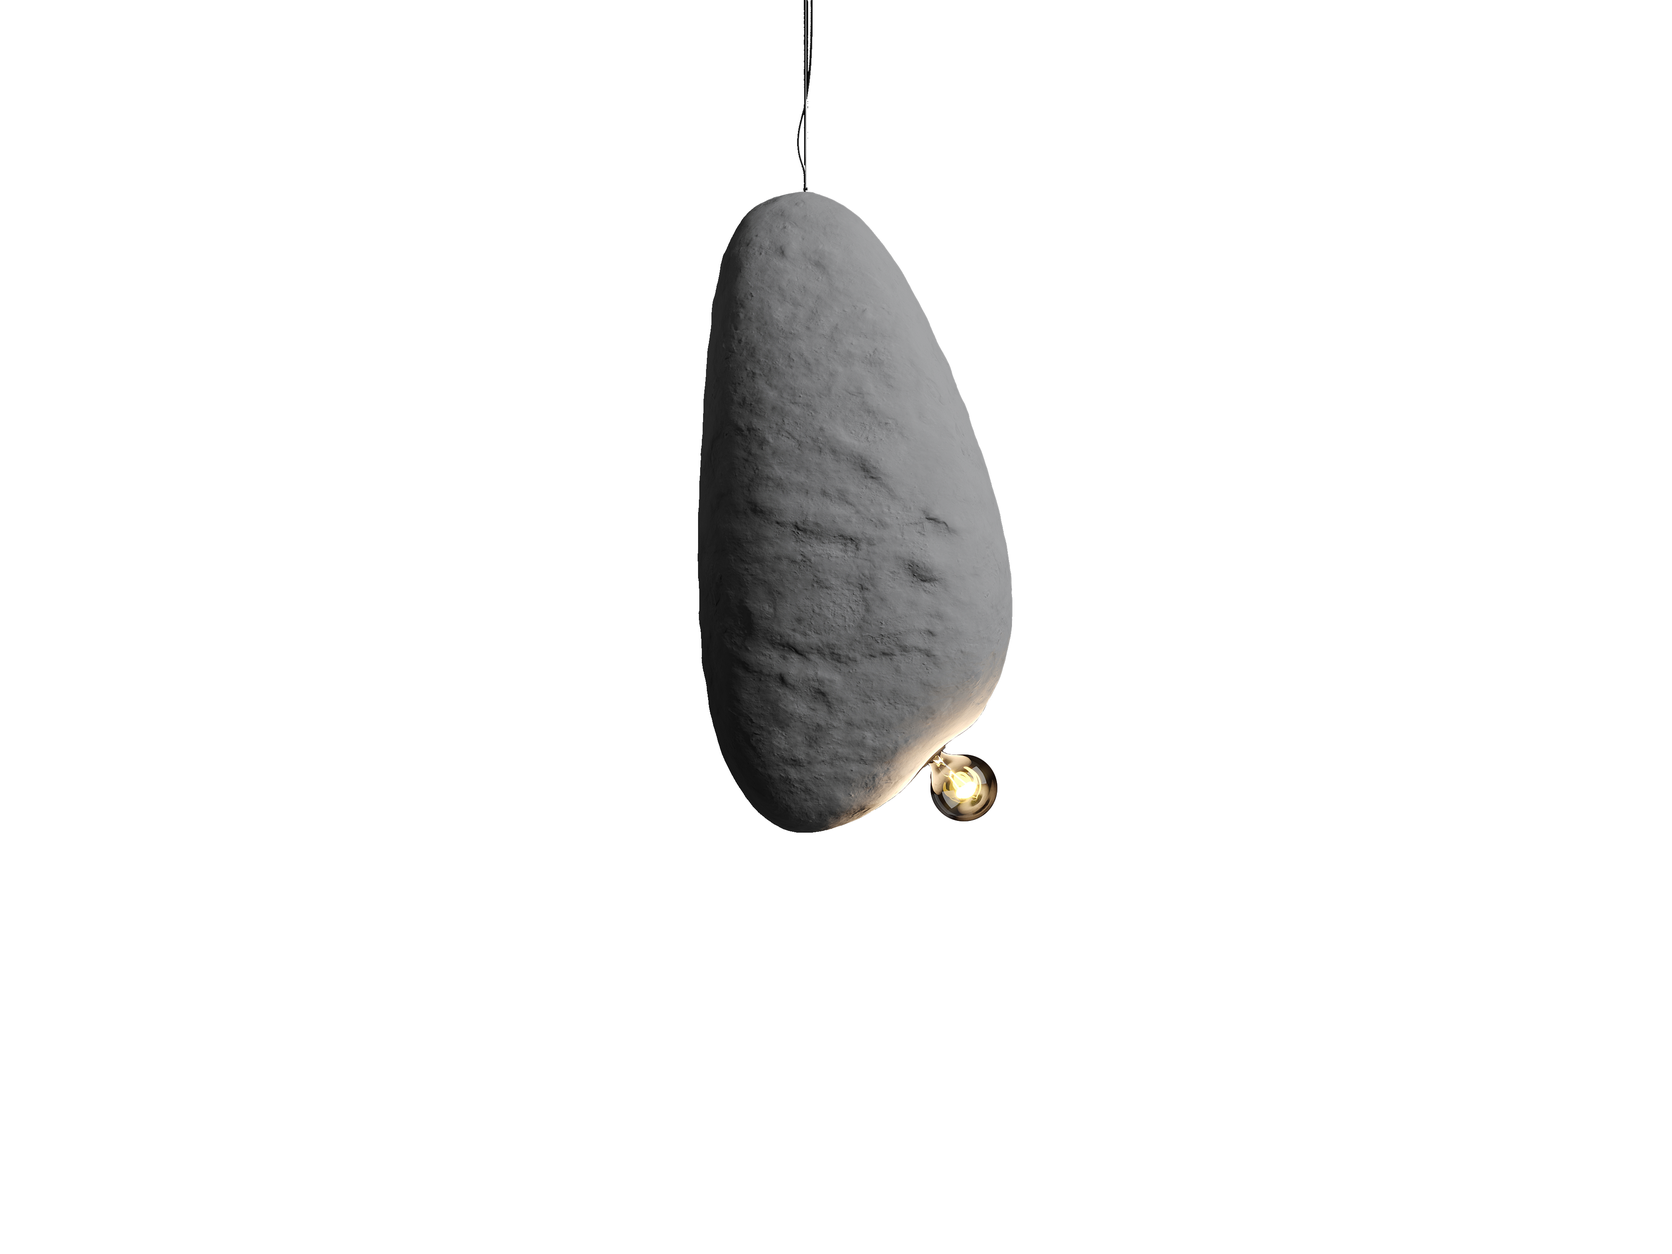
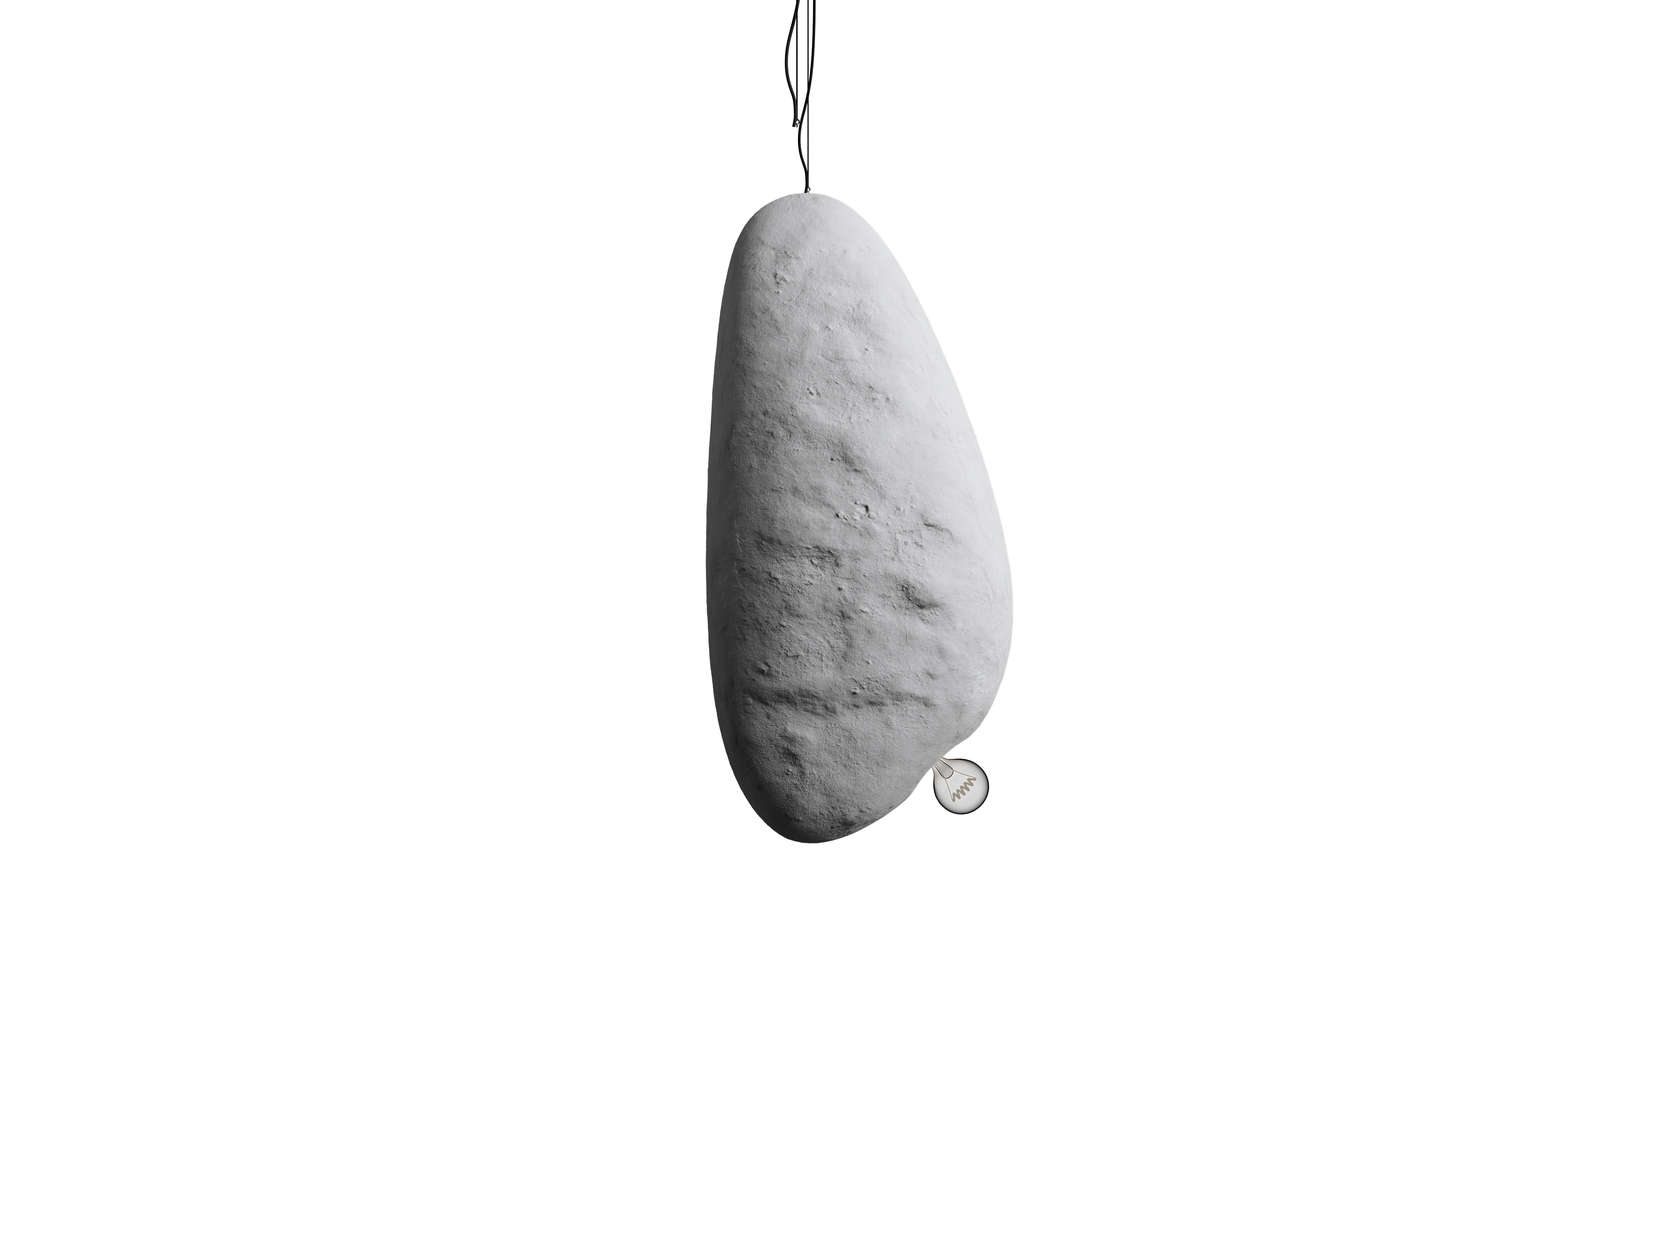
kamen

Changed region(s): [[0.4062, 0.0, 0.625, 0.682]]

diff --git a/pecina-preview.html b/pecina-preview.html
@@ -71,37 +71,37 @@
         </div>
         <!-- Nav -->
         <nav id="menu">
-			<div class="inner">
-				<ul class="links">
-					<li><a href="index.html" data-translate="home">Home</a>
-						<div class="menu-of">
-							<img src="assets/css/navstroke.png" />
-						</div>
-					</li>
-					<li><a href="portfolio.html" data-translate="portfolio">Portfolio</a>
-						<div class="menu-of">
-							<img src="assets/css/navstroke.png" />
-						</div>
-					</li>
-					<li><a href="for-designers.html" data-translate="forDesigners">For Designers</a>
-						<div class="menu-of">
-							<img src="assets/css/navstroke.png" />
-						</div>
-					</li>
-					<li><a href="about-us.html" data-translate="aboutUs">About Us</a>
-						<div class="menu-of">
-							<img src="assets/css/navstroke.png" />
-						</div>
-					</li>
-					<li><a href="contact-us.html">Kontakt</a>
-						<div class="menu-of">
-							<img src="assets/css/navstroke.png" />
-						</div>
-					</li>
-				</ul>
-				<a class="close"><span>Close</span></a>
-			</div>
-		</nav>
+            <div class="inner">
+                <ul class="links">
+                    <li><a href="index.html" data-translate="home">Home</a>
+                        <div class="menu-of">
+                            <img src="assets/css/navstroke.png" />
+                        </div>
+                    </li>
+                    <li><a href="portfolio.html" data-translate="portfolio">Portfolio</a>
+                        <div class="menu-of">
+                            <img src="assets/css/navstroke.png" />
+                        </div>
+                    </li>
+                    <li><a href="for-designers.html" data-translate="forDesigners">For Designers</a>
+                        <div class="menu-of">
+                            <img src="assets/css/navstroke.png" />
+                        </div>
+                    </li>
+                    <li><a href="about-us.html" data-translate="aboutUs">About Us</a>
+                        <div class="menu-of">
+                            <img src="assets/css/navstroke.png" />
+                        </div>
+                    </li>
+                    <li><a href="contact-us.html">Kontakt</a>
+                        <div class="menu-of">
+                            <img src="assets/css/navstroke.png" />
+                        </div>
+                    </li>
+                </ul>
+                <a class="close"><span>Close</span></a>
+            </div>
+        </nav>
         <!-- Main -->
         <section id="main" class="wrapper style1">
             <div class="inner">
@@ -147,44 +147,44 @@
                         data-aos-delay="400">
                         <div class="col-12 col-12-small">
                             <!-- Collapsible items -->
-                            <button class="collapsible"><i class="fas fa-chevron-down chevron arrow"></i>
-                                <h4 class="btn-text-collapsible" data-translate="material"></h4>
-                            </button>
-                            <div class="content-desc">
-                                <p>Lorem ipsum dolor sit amet, consectetur adipiscing elit.</p>
+                            <h4 class="btn-text-collapsible" data-translate="material"></h4>
+                            <div class="">
+                                <p style="margin-bottom: 0;">Keramika</p>
                             </div>
-                            <div class="stroke1"></div>
-                            <button class="collapsible"><i class="fas fa-chevron-down chevron arrow"></i>
-                                <h4 class="btn-text-collapsible" data-translate="dimensions"></h4>
-                            </button>
-                            <div class="content-desc">
-                                <p>Lorem ipsum dolor sit amet, consectetur adipiscing elit.</p>
+                            <div class="stroke1" style="margin-bottom: 1rem;"></div>
+                            <h4 class="btn-text-collapsible" data-translate="dimensions"></h4>
+                            <div class="">
+                                <p style="margin-bottom: 0;">62x36cm (visina x širina)</p>
                             </div>
-                            <div class="stroke2"></div>
-
-                            <button class="collapsible"><i class="fas fa-chevron-down chevron arrow"></i>
-                                <h4 class="btn-text-collapsible" data-translate="weight"></h4>
-                            </button>
-                            <div class="content-desc">
-                                <p>Lorem ipsum dolor sit amet, consectetur adipiscing elit.</p>
+                            <div class="stroke2" style="margin-bottom: 1rem;"></div>
+                            <h4 class="btn-text-collapsible" data-translate="colors"></h4>
+                            <div class="">
+                                <div class="custom-gallery">
+                                    <img src="images/textures/12.jpg" alt="Thumbnail 1" class="custom-thumbnail"
+                                        onclick="openModal('images/textures/12.jpg')">
+                                    <img src="images/textures/13.jpg" alt="Thumbnail 1" class="custom-thumbnail"
+                                        onclick="openModal('images/textures/13.jpg')">
+                                </div>
                             </div>
-                            <div class="stroke3"></div>
-
-                            <button class="collapsible"><i class="fas fa-chevron-down chevron arrow"></i>
-                                <h4 class="btn-text-collapsible" data-translate="colors"></h4>
-                            </button>
-                            <div class="content-desc">
-                                <p>Lorem ipsum dolor sit amet, consectetur adipiscing elit.</p>
+                            <div class="stroke3" style="margin-bottom: 1rem;"></div>
+                            <h4 class="btn-text-collapsible">3D modeli</h4>
+                            <div>
+                                <a class="link-a-3d" href="for-designers.html"><span>Pregled svih 3D modela</span><i
+                                        style="margin-left: 10px;" class="fa fa-arrow-right" aria-hidden="true"></i></a>
                             </div>
-                            <div class="stroke4"></div>
-
+                            <div class="stroke4" style="margin-bottom: 1rem;"></div>
                             <button class="collapsible"><i class="fas fa-chevron-down chevron arrow"></i>
                                 <h4 class="btn-text-collapsible" data-translate="rest"></h4>
                             </button>
                             <div class="content-desc">
-                                <p>Lorem ipsum dolor sit amet, consectetur adipiscing elit.</p>
+                                <p>Mogućnost personalizacije boja i tekstura.</p>
+                                <p>Svaki luster je ručno izrađen unikat, zbog čega može doći do odstupanja tekstura i
+                                    dimenzija u odnosu na primere prikazane u katalogu.</p>
+                                <p>Vreme izrade do 40 dana.</p>
+                                <p>Transport nije ukljucen u cenu.</p>
+                                <p>Preporucena sijalica za grlo E27 - LED Edison.</p>
                             </div>
-                            <div class="stroke5"></div>
+                            <div class="stroke5" style="margin-bottom: 1rem;"></div>
                         </div>
                     </div>
                     <div class="right-desc" data-aos="fade-left" data-aos-delay="600">
@@ -210,6 +210,13 @@
         <section class="wrapper style2 copyright">
             <div class="inner" data-translate="allRights"></div>
         </section>
+        <div id="custom-modal" class="custom-modal" onclick="closeModal()">
+            <span class="custom-close" onclick="closeModal()">&times;</span>
+            <figure id="figure-image" class="zoom" onmousemove="zoom(event)"
+                style="background-image: url(images/textures/02.jpg)">
+                <img id="custom-modal-image" src="images/textures/02.jpg" />
+            </figure>
+        </div>
     </div>
     <!-- Scripts -->
     <script src="assets/js/jquery.min.js"></script>
@@ -226,6 +233,40 @@
     <link href="https://unpkg.com/aos@2.3.1/dist/aos.css" rel="stylesheet">
     <script src="assets/js/preview-page.js"></script>
     <script src="assets/js/darkmode.js"></script>
+    <script>
+        function openModal(imageSrc) {
+            var modal = document.getElementById('custom-modal');
+            var modalImage = document.getElementById('custom-modal-image');
+            var figureImage = document.getElementById('figure-image');
+            if (modal && modalImage) {
+                modal.style.display = 'block';
+                modalImage.src = imageSrc;
+                figureImage.style.backgroundImage = `url(${imageSrc})`;
+                modal.classList.remove('fadeOut');
+                modal.classList.add('fadeIn');
+            }
+        }
+
+        function closeModal() {
+            var modal = document.getElementById('custom-modal');
+            if (modal) {
+                modal.classList.remove('fadeIn');
+                modal.classList.add('fadeOut');
+                setTimeout(function () {
+                    modal.style.display = 'none';
+                }, 500);
+            }
+        }
+
+        function zoom(e) {
+            var zoomer = e.currentTarget;
+            e.offsetX ? offsetX = e.offsetX : offsetX = e.touches[0].pageX
+            e.offsetY ? offsetY = e.offsetY : offsetX = e.touches[0].pageX
+            x = offsetX / zoomer.offsetWidth * 100
+            y = offsetY / zoomer.offsetHeight * 100
+            zoomer.style.backgroundPosition = x + '% ' + y + '%';
+        }
+    </script>
 
 </body>
 

diff --git a/kamen-preview.html b/kamen-preview.html
@@ -35,12 +35,8 @@
                     left: 10px;
                     color: #fff;
                     z-index: 1;
-                  "
-                  class="zero-switch"
-                  >O</span
-                >
-                <span
-                  style="
+                  " class="zero-switch">O</span>
+                <span style="
                     text-transform: uppercase;
                     display: inline-block;
                     text-transform: uppercase;
@@ -49,12 +45,9 @@
                     right: 10px;
                     color: #333;
                     z-index: 1;
-                  "
-                  class="one-switch"
-                  >I</span
-                >
+                  " class="one-switch">I</span>
                 <div class="radio-control"></div>
-              </button>
+            </button>
             <div class="custom-select" id="language-selector">
                 <div class="select-selected">
                     <img src="images/srbflag.png" alt="SRB"> SRB
@@ -78,37 +71,37 @@
         </div>
         <!-- Nav -->
         <nav id="menu">
-			<div class="inner">
-				<ul class="links">
-					<li><a href="index.html" data-translate="home">Home</a>
-						<div class="menu-of">
-							<img src="assets/css/navstroke.png" />
-						</div>
-					</li>
-					<li><a href="portfolio.html" data-translate="portfolio">Portfolio</a>
-						<div class="menu-of">
-							<img src="assets/css/navstroke.png" />
-						</div>
-					</li>
-					<li><a href="for-designers.html" data-translate="forDesigners">For Designers</a>
-						<div class="menu-of">
-							<img src="assets/css/navstroke.png" />
-						</div>
-					</li>
-					<li><a href="about-us.html" data-translate="aboutUs">About Us</a>
-						<div class="menu-of">
-							<img src="assets/css/navstroke.png" />
-						</div>
-					</li>
-					<li><a href="contact-us.html">Kontakt</a>
-						<div class="menu-of">
-							<img src="assets/css/navstroke.png" />
-						</div>
-					</li>
-				</ul>
-				<a class="close"><span>Close</span></a>
-			</div>
-		</nav>
+            <div class="inner">
+                <ul class="links">
+                    <li><a href="index.html" data-translate="home">Home</a>
+                        <div class="menu-of">
+                            <img src="assets/css/navstroke.png" />
+                        </div>
+                    </li>
+                    <li><a href="portfolio.html" data-translate="portfolio">Portfolio</a>
+                        <div class="menu-of">
+                            <img src="assets/css/navstroke.png" />
+                        </div>
+                    </li>
+                    <li><a href="for-designers.html" data-translate="forDesigners">For Designers</a>
+                        <div class="menu-of">
+                            <img src="assets/css/navstroke.png" />
+                        </div>
+                    </li>
+                    <li><a href="about-us.html" data-translate="aboutUs">About Us</a>
+                        <div class="menu-of">
+                            <img src="assets/css/navstroke.png" />
+                        </div>
+                    </li>
+                    <li><a href="contact-us.html">Kontakt</a>
+                        <div class="menu-of">
+                            <img src="assets/css/navstroke.png" />
+                        </div>
+                    </li>
+                </ul>
+                <a class="close"><span>Close</span></a>
+            </div>
+        </nav>
         <!-- Main -->
         <section id="main" class="wrapper style1">
             <div class="inner">
@@ -151,12 +144,12 @@
                             <!-- Collapsible items -->
                             <h4 class="btn-text-collapsible" data-translate="material"></h4>
                             <div class="">
-                                <p style="margin-bottom: 0;">Patinirani bakar i Glazirana keramika</p>
+                                <p style="margin-bottom: 0;">Polistiren</p>
                             </div>
                             <div class="stroke1" style="margin-bottom: 1rem;"></div>
                             <h4 class="btn-text-collapsible" data-translate="dimensions"></h4>
                             <div class="">
-                                <p style="margin-bottom: 0;">61x40cm (visina x širina)</p>
+                                <p style="margin-bottom: 0;">100x47cm, 80x40cm, 70x33cm (visina x širina) <br />Mogućnost proizvoljnih dimenzija.</p>
                             </div>
                             <div class="stroke2" style="margin-bottom: 1rem;"></div>
                             <h4 class="btn-text-collapsible" data-translate="colors"></h4>
@@ -166,6 +159,8 @@
                                         onclick="openModal('images/textures/05.jpg')">
                                     <img src="images/textures/06.jpg" alt="Thumbnail 2" class="custom-thumbnail"
                                         onclick="openModal('images/textures/06.jpg')">
+                                    <img src="images/textures/custom.jpg" alt="Thumbnail 3" class="custom-thumbnail"
+                                        onclick="openModal('images/textures/custom.jpg')">
                                 </div>
                             </div>
                             <div class="stroke3" style="margin-bottom: 1rem;"></div>
@@ -179,10 +174,12 @@
                                 <h4 class="btn-text-collapsible" data-translate="rest"></h4>
                             </button>
                             <div class="content-desc">
-                                <p>Uz mogućnost dogovora, pored ponuđenih paleta, nudimo personalizaciju boja i tekstura
-                                    prema vašim željama.</p>
+                                <p>Mogućnost personalizacije boja i tekstura.</p>
                                 <p>Svaki luster je ručno izrađen unikat, zbog čega može doći do odstupanja tekstura i
-                                    šara u odnosu na primere prikazane u katalogu.</p>
+                                    dimenzija u odnosu na primere prikazane u katalogu.</p>
+                                <p>Vreme izrade do 40 dana.</p>
+                                <p>Transport nije ukljucen u cenu.</p>
+                                <p>Preporucena sijalica za grlo E27 - LED Edison.</p>
                             </div>
                             <div class="stroke5" style="margin-bottom: 1rem;"></div>
                         </div>
@@ -234,7 +231,7 @@
     <link href="https://unpkg.com/aos@2.3.1/dist/aos.css" rel="stylesheet">
     <script src="assets/js/preview-page.js"></script>
     <script>
-          function openModal(imageSrc) {
+        function openModal(imageSrc) {
             var modal = document.getElementById('custom-modal');
             var modalImage = document.getElementById('custom-modal-image');
             var figureImage = document.getElementById('figure-image');

diff --git a/language.js b/language.js
@@ -39,11 +39,11 @@ document.addEventListener("DOMContentLoaded", function () {
       miSubTitle: "Crvena nit energije",
       more: "Detaljnije",
       samurajFullDesc1:
-        "U japanskoj kulturi, vraćanjem u davnu prošlost dolazimo do ratnika davnih vremena - samuraja. Inspirisani tim konceptom, stvorili smo našeg 'Samuraja', luster koji odaje počast karakteru I učenju drevnih ratnika.",
+        "U japanskoj kulturi, vraćanjem u davnu prošlost dolazimo do ratnika davnih vremena - samuraja. Inspirisani tim konceptom, stvorili smo našeg “Samuraja“, luster koji odaje počast karakteru I učenju drevnih ratnika.",
       samurajFullDesc2:
         "Oblik I boja lustera podseća na “kabuto”, tradicionalni šlem samuraja koji su nosili u bitkama, dok sam dizajn odražava suštinske vrednosti filozofije dalekog istoka - minimalizam, wabi sabi, iki. Dok smo ga stvarali, nastojali smo da ti principi prožmu svaki aspekt dizajna. Kroz nijanse patine stvorene oksidiranjem bakra kroz vreme, možemo zamisliti prošlost ovog materijala i osetiti prisustvo godina koje ga je oblikovalo. Drugi deo lustera izrađen od gline, simbolizuje tradiciju i kontinuitet između generacija koje povezuje isti materijal, zemlja. Ne postoji čovek čiji preci nisu koristili ovaj materijal u izradi kuća, posuđa, i drugih predmeta.",
       samurajFullDesc3:
-        "U 'Samuraju' pronalazimo više od običnog komada osvetljenja; on je poput portala kojim se možemo povezati sa dubokim moralnim vrednostima i duhovnom mudrošću japanske tradicije, podsećajući nas na lepotu nesavršenosti, jednostavnosti i nepravilnosti.",
+        "U “Samuraju“ pronalazimo više od običnog komada osvetljenja; on je poput portala kojim se možemo povezati sa dubokim moralnim vrednostima i duhovnom mudrošću japanske tradicije, podsećajući nas na lepotu nesavršenosti, jednostavnosti i nepravilnosti.",
       specification: "specifikacija",
       material: "materijal",
       dimensions: "dimenzije",

diff --git a/samuraj-preview.html b/samuraj-preview.html
@@ -155,7 +155,7 @@
                             <!-- Collapsible items -->
                             <h4 class="btn-text-collapsible" data-translate="material"></h4>
                             <div class="">
-                                <p style="margin-bottom: 0;">Patinirani bakar i Glazirana keramika</p>
+                                <p style="margin-bottom: 0;">Bakar i Keramika</p>
                             </div>
                             <div class="stroke1" style="margin-bottom: 1rem;"></div>
                             <h4 class="btn-text-collapsible" data-translate="dimensions"></h4>
@@ -170,6 +170,8 @@
                                         onclick="openModal('images/textures/02.jpg')">
                                     <img src="images/textures/09.jpg" alt="Thumbnail 2" class="custom-thumbnail"
                                         onclick="openModal('images/textures/09.jpg')">
+                                    <img src="images/textures/custom.jpg" alt="Thumbnail 3" class="custom-thumbnail"
+                                        onclick="openModal('images/textures/custom.jpg')">
                                 </div>
                             </div>
                             <div class="stroke3" style="margin-bottom: 1rem;"></div>
@@ -183,8 +185,7 @@
                                 <h4 class="btn-text-collapsible" data-translate="rest"></h4>
                             </button>
                             <div class="content-desc">
-                                <p>Mogućnost personalizacije boja i tekstura
-                                    prema vašim željama.</p>
+                                <p>Mogućnost personalizacije boja i tekstura.</p>
                                 <p>Svaki luster je ručno izrađen unikat, zbog čega može doći do odstupanja tekstura i
                                     dimenzija u odnosu na primere prikazane u katalogu.</p>
                                 <p>Vreme izrade do 40 dana.</p>
